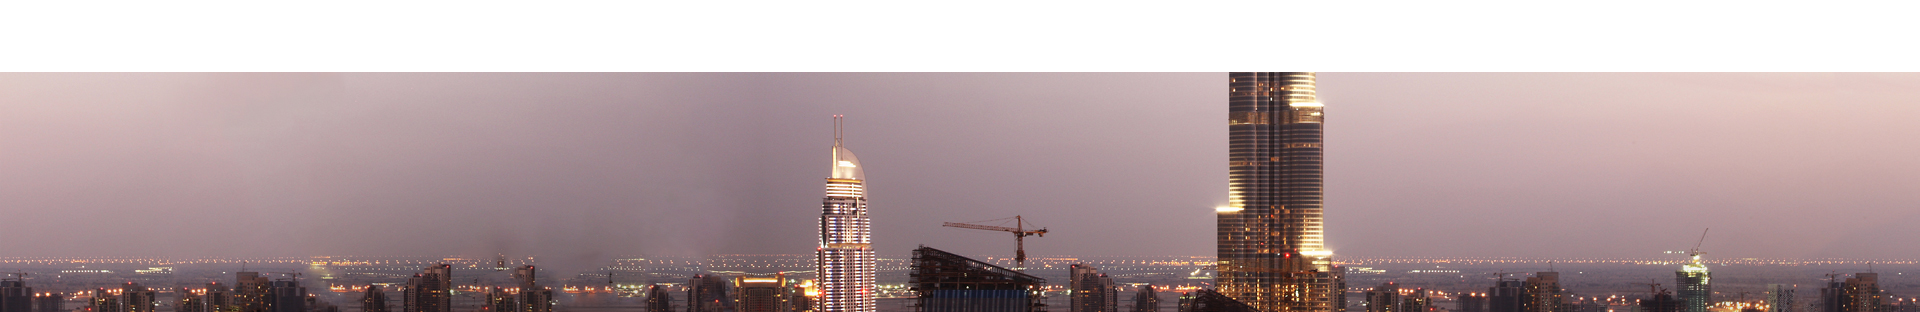
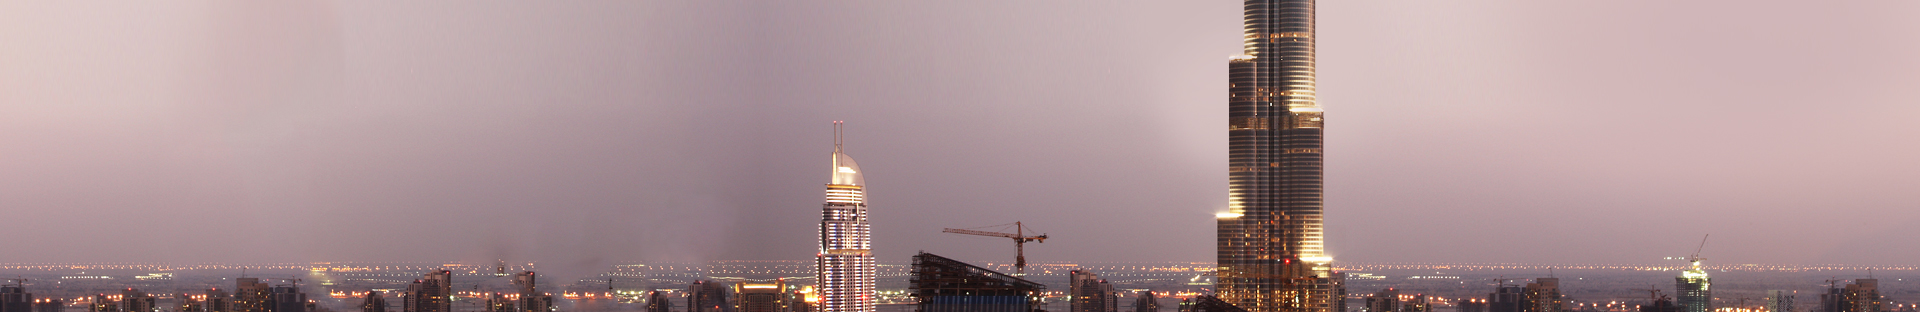
메인 페이드 속도 제어, 서브비주얼 수정

diff --git a/sscnt/css/layout_kor.css b/sscnt/css/layout_kor.css
@@ -526,9 +526,27 @@ common Layout - 공통적용되는 스타일은 작업하시면 안됩니다.
 #contentsWrap { position:relative; min-height: 100%; } 
 #contentsWrap > .container { padding: 104px 0 100px; margin: 0 0 -100px; } 
 #contentsWrap .contentsTop { position: relative; } 
-#contentsWrap .contentsTop .inner { max-width:1200px; padding:0 50px; margin:0 auto; box-sizing: border-box; } 
-#contentsWrap .visualWrap { min-height: 312px; background: url(/images/front/common/pic_visual.jpg) no-repeat 50% 50%; background-size: cover; } 
-#contentsWrap .visualWrap .visualTit { padding-top: 170px; font-weight: 700; color: #fff; } 
+#contentsWrap .contentsTop .inner { max-width:1200px; padding:0 50px; margin:0 auto; box-sizing: border-box; }
+
+#contentsWrap .visualWrap {position:relative;overflow:hidden;width:100%;height:312px;}
+#contentsWrap .visualWrap .swiper-wrapper {height:100%;font-size:0;line-height:0;white-space:nowrap;}
+#contentsWrap .visualWrap .swiper-slide {position:relative;display:inline-block;position:relative;width:100%;height:100%;text-align:left;min-height: 312px; background: url(/images/front/common/pic_visual.jpg) no-repeat 50% 50%; background-size: cover;}
+#contentsWrap .visualWrap .visual02 {background-image: url(/images/front/common/pic_visual_02.jpg);}
+#contentsWrap .visualWrap .visual03 {background-image: url(/images/front/common/pic_visual_03.jpg);}
+#contentsWrap .visualWrap .visual04 {background-image: url(/images/front/common/pic_visual_04.jpg);}
+#contentsWrap .visualWrap .inner {overflow:hidden; max-width:1200px; padding:0 50px; box-sizing:border-box; position:relative; bottom:165px; left:0; margin:0 auto}
+
+.swiper-page-wrap { overflow:hidden; max-width:1200px; padding:0 50px; box-sizing:border-box; position:relative; bottom:155px; left:0; height:30px; margin:0 auto } 
+.swiper-page-wrap > div { float:left } 
+.visualWrap .swiper-pagination { position:absolute; top:13px; left:50px; } 
+.visualWrap .swiper-pagination .swiper-pagination-bullet { vertical-align:top; width:16px; height:3px; display:inline-block; margin-left:2px; background:#666666; } 
+.visualWrap .swiper-pagination .swiper-pagination-bullet-active { width:40px; background:#febd32; transition:0.2s } 
+.visualWrap .swiper-pagination .swiper-pagination-bullet:first-child { margin-left:0; } 
+.visualWrap .swiper-counter { position: absolute; top:0; left:155px; width:58px; height:30px; font-size:16px; color:#ddd; text-align:center; background:url(/images/front/main/visual_num.png) no-repeat } 
+.visualWrap .swiper-counter span { padding:6px 0; display:inline-block; opacity:1 } 
+.visualWrap .swiper-counter span.count { color:#febd32; } 
+
+#contentsWrap .visualWrap .visualTit { padding-top: 0; font-weight: 700; color: #fff; } 
 #contentsWrap .visualWrap .visualTit span { display: block; margin-top: 10px; font-size: 30px; font-weight: 400; line-height: 1; } 
 #contentsWrap .visualWrap .visualTit span .home { position:relative; display: inline-block; width: 42px; height: 21px; margin-right: 15px; background: url(/images/front/icon/ico_home.png) no-repeat; background-size: auto 21px; text-indent:-9999px; } 
 #contentsWrap .visualWrap .visualTit span .home:after { content:''; display: block; position:absolute; top:5px; left: auto; right:0; width: 7px; height: 15px; background: url(/images/front/common/bul_arrow.png) no-repeat; background-size: auto 15px; } 

diff --git a/sscnt/html/kor/layout.html b/sscnt/html/kor/layout.html
@@ -12,7 +12,8 @@
 <link type="text/css" rel="stylesheet" href="/css/corporate.css" /> <!-- 해당 대메뉴 기준 css 삽입 -->
 <script type="text/javascript" src="/js/jquery-1.12.4.min.js"></script>
 <script type="text/javascript" src="/js/TweenMax.min.js"></script>
-<script type="text/javascript" src="/js/media.match.min.js"></script>
+<script type="text/javascript" src="/js/swiper.min.js"></script> <!-- 2018-07-02 서브 비주얼화면 슬라이드 추가 -->
+<script type="text/javascript" src="/js/media.match.min.js"></script> <!-- 2018-07-02 IE9 대응 플러그인 추가 -->
 <script type="text/javascript" src="/js/common.js"></script>
 <!--[if lt IE 9]>
 	<script src="/js/html5.js"></script>
@@ -190,13 +191,41 @@
 			
 			<div class="moLayout">
 				<div class="contentsTop">
-					<div class="visualWrap">
+
+					<!-- 2018-07-02 서브비주얼 수정 -->
+					<!-- visualWrap -->
+					<div class="visualWrap swiper-container">
+						<div class="swiper-wrapper">
+							<div class="swiper-slide visual01">
+							</div>
+							<div class="swiper-slide visual02">
+							</div>
+							<div class="swiper-slide visual03">
+							</div>
+							<div class="swiper-slide visual04">
+							</div>
+						</div>
 						<div class="inner">
 							<h3 class="visualTit">
 								고객문의 <span><i class="home">home</i>OUR BUSINESSES</span>
 							</h3>
 						</div>
+						<!-- Add Pagination -->
+						<div class="swiper-page-wrap">
+							<div class="swiper-pagination"></div>
+							<div class="swiper-counter"></div>
+						</div>
 					</div>
+				
+					<!-- <div class="visualWrap">
+						<div class="inner">
+							<h3 class="visualTit">
+								고객문의 <span><i class="home">home</i>OUR BUSINESSES</span>
+							</h3>
+						</div>
+					</div> -->
+					<!-- //2018-07-02 서브비주얼 수정 -->
+					
 					<div class="searchWrap">
 						<div class="inner clfix">
 							<ul class="hashtag">
@@ -566,5 +595,32 @@
 		</div>
 	</div> <!-- // footer -->
 </div> <!-- // wrap -->
+
+<script>
+	var swiper = new Swiper('.swiper-container', {
+		wrapperClass: "swiper-wrapper",
+		slideClass: "swiper-slide",
+		pagination: ".swiper-pagination",
+		paginationClickable: true,
+		autoplayDisableOnInteraction: false,
+		autoplay: 3000,
+		loop: true,
+		speed: 1000, // 2018-07-02 옵션 추가
+		effect: 'fade',  // 화면전환 변경
+		onInit: function (swiper) {
+			console.log(swiper.slides);
+			var len = swiper.slides.length-2; // total
+			var counter = $('.swiper-counter');
+			var count = $('<span class="count">1</span><span class="total"> / '+ len +'</span>');
+			counter.append(count);
+		},
+		onSlideChangeStart: function (swiper) {
+			var index = swiper.realIndex+1 ; // 현재 활성화 idx
+			$('.count').text(index);
+		}
+	});
+</script>
+	
+
 </body>
 </html>

diff --git a/sscnt/html/eng/layout.html b/sscnt/html/eng/layout.html
@@ -13,7 +13,8 @@
 <link type="text/css" rel="stylesheet" href="/css/corporate.css" /> <!-- 해당 대메뉴 기준 css 삽입 -->
 <script type="text/javascript" src="/js/jquery-1.12.4.min.js"></script>
 <script type="text/javascript" src="/js/TweenMax.min.js"></script>
-<script type="text/javascript" src="/js/media.match.min.js"></script>
+<script type="text/javascript" src="/js/swiper.min.js"></script> <!-- 2018-07-02 서브 비주얼화면 슬라이드 추가 -->
+<script type="text/javascript" src="/js/media.match.min.js"></script> <!-- 2018-07-02 IE9 대응 플러그인 추가 -->
 <script type="text/javascript" src="/js/common.js"></script>
 <!--[if lt IE 9]>
 	<script src="/js/html5.js"></script>
@@ -189,13 +190,40 @@
 			
 			<div class="moLayout">
 				<div class="contentsTop">
-					<div class="visualWrap">
+					<!-- 2018-07-02 서브비주얼 수정 -->
+					<!-- visualWrap -->
+					<div class="visualWrap swiper-container">
+						<div class="swiper-wrapper">
+							<div class="swiper-slide visual01">
+							</div>
+							<div class="swiper-slide visual02">
+							</div>
+							<div class="swiper-slide visual03">
+							</div>
+							<div class="swiper-slide visual04">
+							</div>
+						</div>
 						<div class="inner">
 							<h3 class="visualTit">
 								Contact Us <span><i class="home">home</i>OUR BUSINESSES</span>
 							</h3>
 						</div>
+						<!-- Add Pagination -->
+						<div class="swiper-page-wrap">
+							<div class="swiper-pagination"></div>
+							<div class="swiper-counter"></div>
+						</div>
 					</div>
+					
+					<!-- <div class="visualWrap">
+						<div class="inner">
+							<h3 class="visualTit">
+								고객문의 <span><i class="home">home</i>OUR BUSINESSES</span>
+							</h3>
+						</div>
+					</div> -->
+					<!-- //2018-07-02 서브비주얼 수정 -->
+
 					<div class="searchWrap">
 						<div class="inner clfix">
 							<ul class="hashtag">
@@ -587,5 +615,31 @@
 		</div>
 	</div> <!-- // footer -->
 </div> <!-- // wrap -->
+
+<script>
+	var swiper = new Swiper('.swiper-container', {
+		wrapperClass: "swiper-wrapper",
+		slideClass: "swiper-slide",
+		pagination: ".swiper-pagination",
+		paginationClickable: true,
+		autoplayDisableOnInteraction: false,
+		autoplay: 3000,
+		loop: true,
+		speed: 1000, // 2018-07-02 옵션 추가
+		effect: 'fade',  // 화면전환 변경
+		onInit: function (swiper) {
+			console.log(swiper.slides);
+			var len = swiper.slides.length-2; // total
+			var counter = $('.swiper-counter');
+			var count = $('<span class="count">1</span><span class="total"> / '+ len +'</span>');
+			counter.append(count);
+		},
+		onSlideChangeStart: function (swiper) {
+			var index = swiper.realIndex+1 ; // 현재 활성화 idx
+			$('.count').text(index);
+		}
+	});
+</script>
+
 </body>
 </html>

diff --git a/sscnt/html/eng/main/CNT_M_E.html b/sscnt/html/eng/main/CNT_M_E.html
@@ -584,6 +584,7 @@
 		autoplayDisableOnInteraction: false,
 		autoplay: 3000,
 		loop: true,
+		speed: 1000, // 2018-07-02 옵션 추가
 		effect: 'fade',  // 화면전환 변경
 		onInit: function (swiper) {
 			console.log(swiper.slides);

diff --git a/sscnt/html/kor/main/CNT_M_K.html b/sscnt/html/kor/main/CNT_M_K.html
@@ -597,6 +597,7 @@
 		autoplayDisableOnInteraction: false,
 		autoplay: 3000,
 		loop: true,
+		speed: 1000, // 2018-07-02 옵션 추가
 		effect: 'fade',  // 화면전환 변경
 		onInit: function (swiper) {
 			console.log(swiper.slides);
